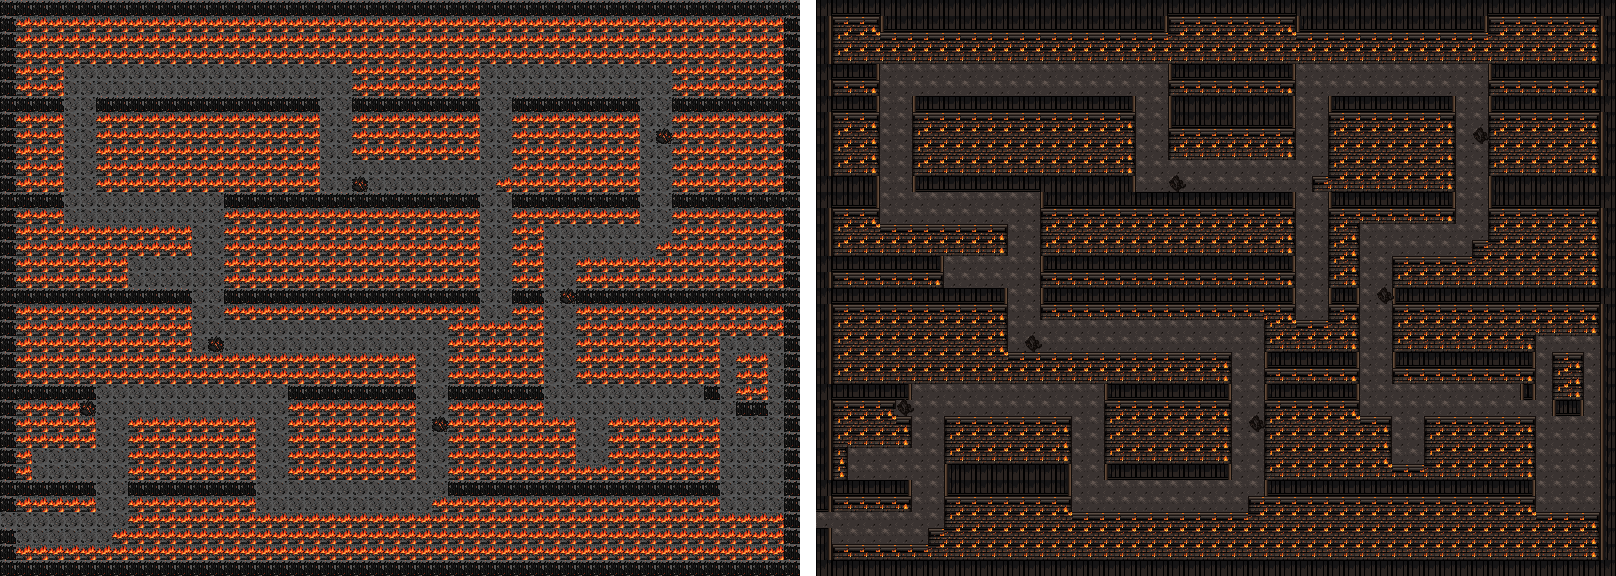
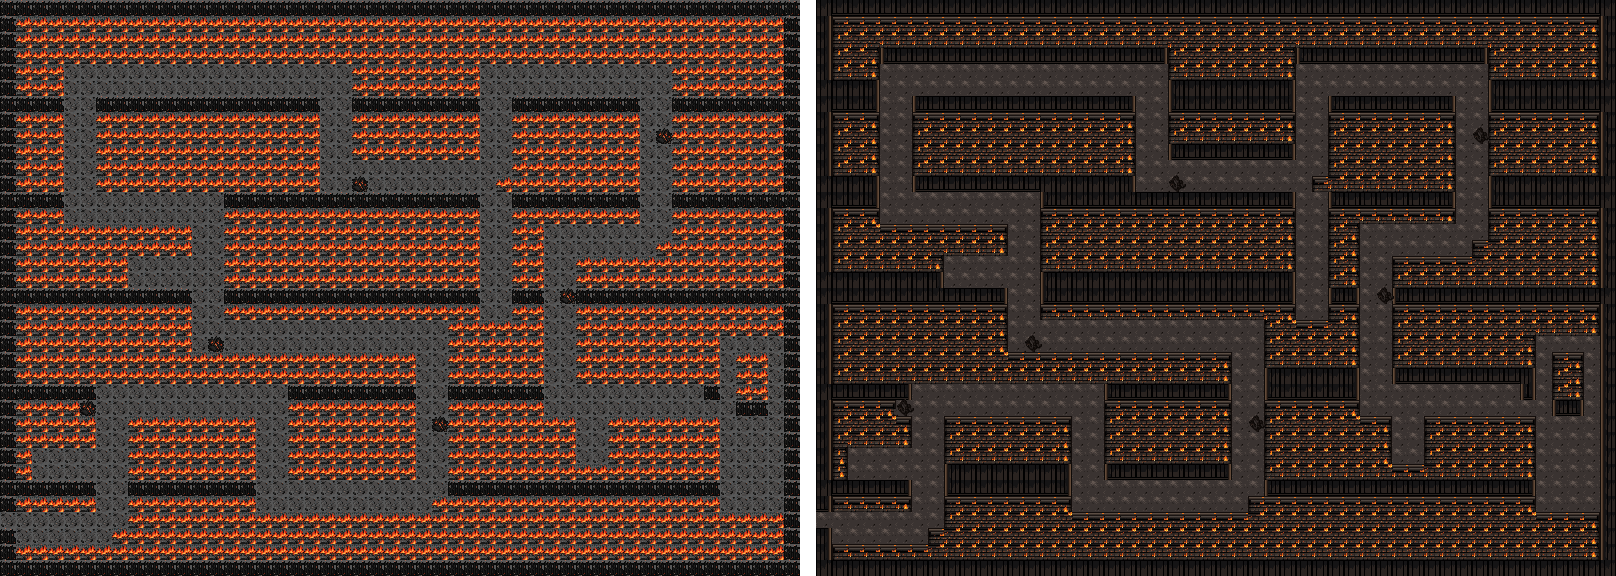
レビューの指摘を直す（壁にする行が同じ文字列の別の行に当たっていたのを位置で置き換え、fire のコメントと地面の記録）
Claude-Session: https://claude.ai/code/session_01TGCvVfy3VHhAmbVTgzNtmF

diff --git a/src/data/maps.ts b/src/data/maps.ts
@@ -50,7 +50,10 @@ export const TILESETS = {
    * 同じ絵に差し替えた。壁は黒い板の天端と漆喰・腰板の正面の部品で描くので、ここに残した wall の 1 枚の画像は描画に使われない（読み込みは続ける）。
    */
   kura: ['wall', 'floor', 'ground'],
-  /** 大火の町（神田の大火）。燃える長屋の屋根、焦げた板塀、焼け跡の地面、燃え落ちた材木のがれき。 */
+  /**
+   * 大火の町（神田の大火）。地面は焼け跡（がれきの部品の組の lower と同じ絵に差し替えた）。燃える長屋の屋根、焦げた板塀、
+   * 燃え落ちた材木のがれきは部品（src/data/mapParts.ts）で描くので、ここに残した roof・wall・rock の 1 枚の画像は描画に使われない（読み込みは続ける）。
+   */
   fire: ['roof', 'wall', 'ground', 'rock'],
   // 町ごとの建物（屋根・壁・戸）。通れる地面・道・草は共通のまま
   /** 港町（清水湊・広島）。石を載せた板屋根、潮で白んだ板壁、縞の暖簾の戸。水は港の海（町の川・堀にも使うので穏やかな波）。 */
@@ -5660,29 +5663,29 @@ MAPS.edoTaika = {
   areaLevel: 25,
   rows: [
     'WWWWWWWWWWWWWWWWWWWWWWWWWWWWWWWWWWWWWWWWWWWWWWWWWW',
+    'WRRRRRRRRRRRRRRRRRRRRRRRRRRRRRRRRRRRRRRRRRRRRRRRRW',
+    'WRRRRRRRRRRRRRRRRRRRRRRRRRRRRRRRRRRRRRRRRRRRRRRRRW',
     'WRRRWWWWWWWWWWWWWWWWWWRRRRRRRRWWWWWWWWWWWWRRRRRRRW',
-    'WRRRRRRRRRRRRRRRRRRRRRRRRRRRRRRRRRRRRRRRRRRRRRRRRW',
-    'WRRRRRRRRRRRRRRRRRRRRRRRRRRRRRRRRRRRRRRRRRRRRRRRRW',
-    'WWWW..................WWWWWWWW............WWWWWWWW',
     'WRRR..................RRRRRRRR............RRRRRRRW',
+    'WWWW..................WWWWWWWW............WWWWWWWW',
     'WWWW..WWWWWWWWWWWWWW..WWWWWWWW..WWWWWWWW..WWWWWWWW',
-    'WRRR..RRRRRRRRRRRRRR..WWWWWWWW..RRRRRRRR..RRRRRRRW',
-    'WRRR..RRRRRRRRRRRRRR..RRRRRRRR..RRRRRRRR.^RRRRRRRW',
     'WRRR..RRRRRRRRRRRRRR..RRRRRRRR..RRRRRRRR..RRRRRRRW',
+    'WRRR..RRRRRRRRRRRRRR..RRRRRRRR..RRRRRRRR.^RRRRRRRW',
+    'WRRR..RRRRRRRRRRRRRR..WWWWWWWW..RRRRRRRR..RRRRRRRW',
     'WRRR..RRRRRRRRRRRRRR............RRRRRRRR..RRRRRRRW',
     'WWWW..WWWWWWWWWWWWWW..^........RRRRRRRRR..WWWWWWWW',
     'WWWW..........WWWWWWWWWWWWWWWW..WWWWWWWW..WWWWWWWW',
     'WRRR..........RRRRRRRRRRRRRRRR..RRRRRRRR..RRRRRRRW',
     'WRRRRRRRRRRR..RRRRRRRRRRRRRRRR..RR........RRRRRRRW',
     'WRRRRRRRRRRR..RRRRRRRRRRRRRRRR..RR.......RRRRRRRRW',
-    'WWWWWWWW......WWWWWWWWWWWWWWWW..RR..RRRRRRRRRRRRRW',
     'WRRRRRRR......RRRRRRRRRRRRRRRR..RR..RRRRRRRRRRRRRW',
+    'WWWWWWWW......WWWWWWWWWWWWWWWW..RR..RRRRRRRRRRRRRW',
     'WWWWWWWWWWWW..WWWWWWWWWWWWWWWW..WW.^WWWWWWWWWWWWWW',
     'WRRRRRRRRRRR..RRRRRRRRRRRRRRRR..RR..RRRRRRRRRRRRRW',
     'WRRRRRRRRRRR................RRRRRR..RRRRRRRRRRRRRW',
     'WRRRRRRRRRRR.^..............RRRRRR..RRRRRRRRR....W',
-    'WRRRRRRRRRRRRRRRRRRRRRRRRR..WWWWWW..WWWWWWWWW.RR.W',
     'WRRRRRRRRRRRRRRRRRRRRRRRRR..RRRRRR..RRRRRRRRR.RR.W',
+    'WRRRRRRRRRRRRRRRRRRRRRRRRR..WWWWWW..WWWWWWWWW.RR.W',
     'WWWWWW............WWWWWWWW..WWWWWW..........W.RR.W',
     'WRRRR^............RRRRRRRR..RRRRRR............WW.W',
     'WRRRRR..RRRRRRRR..RRRRRRRR.^RRRRRRRR..RRRRRRR....W',

diff --git a/public/assets/README.md b/public/assets/README.md
@@ -520,7 +520,7 @@ ZIP の番号はファイル名の末尾の通し番号（0 から 15 の 16 枚
 
 #### 大火の町（fire: 神田の大火）
 
-屋根・壁・地面・がれきがすべて 1 枚の柄の敷き詰めで、炎の屋根が格子に並び、地面とがれき・屋根の境に縁がなかった。焼け跡の地面（`fire/ground.png`。がれきの組の lower のタイル、マスク 0 に差し替えた）の上に がれき（岩の文字）を境目の部品（dual）で重ね、燃える長屋の屋根・焦げた板壁を端の部品（edge）で描く。壁は外周の塀にも使う。
+屋根・壁・地面・がれきがすべて 1 枚の柄の敷き詰めで、炎の屋根が格子に並び、地面とがれき・屋根の境に縁がなかった。焼け跡の地面（`fire/ground.png`。がれきの組の lower のタイル ebea3dbf-6c90-496c-b530-001bec2ae730 に差し替えた。`wang_sheet.py <ID> <出力> --keep-lower` で並べたシートのマスク 0 のコマ（左上の 16 × 16）を切り出した。透明にしたシートのマスク 0 は全面が透明）の上に がれき（岩の文字）を境目の部品（dual）で重ね、燃える長屋の屋根・焦げた板壁を端の部品（edge）で描く。壁は外周の塀にも使う。
 `fire/roof.png`・`wall.png`・`rock.png` は描画に使われなくなった（`TILESETS` に残して読み込みは続ける）。
 
 マップの文字は、高さ 3 段以上の屋根の、下が屋根でない横の並び（3 マス以上で、どのマスも上に屋根が 2 段以上続くもの）を壁にしただけ（134 マス。屋根も壁も通れないので、通れるかは変わらない）。5 段の屋根が壁 1 段の上に載り、炎の柄が広い面に並んで見えたため、家を屋根 2〜4 段・壁 1〜2 段に分けた。
